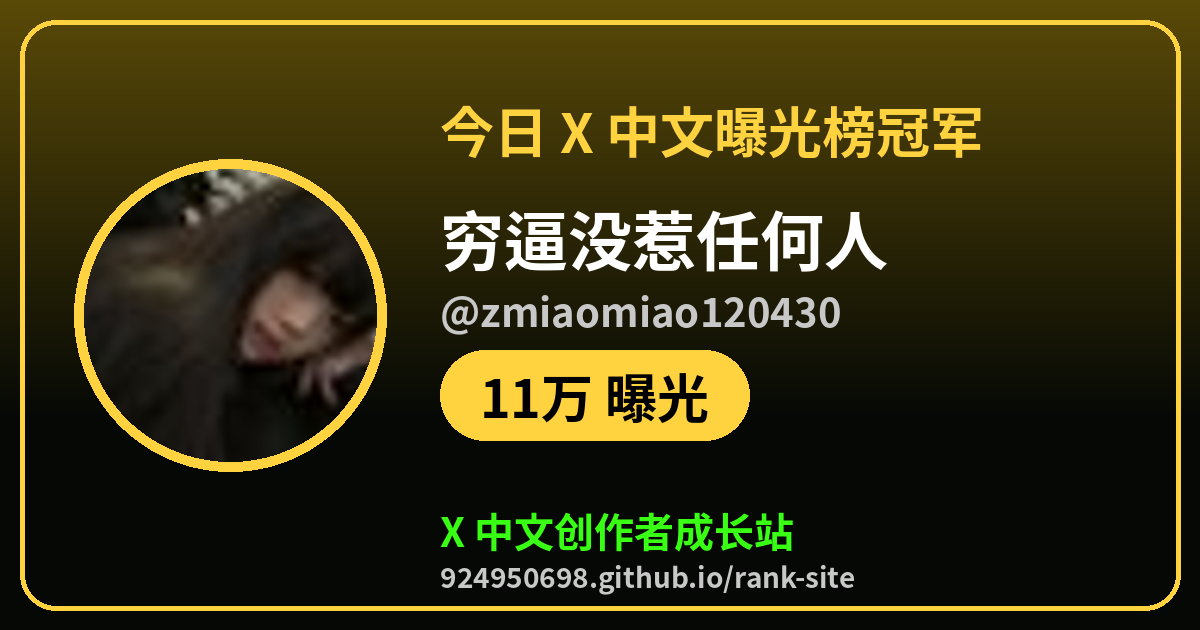
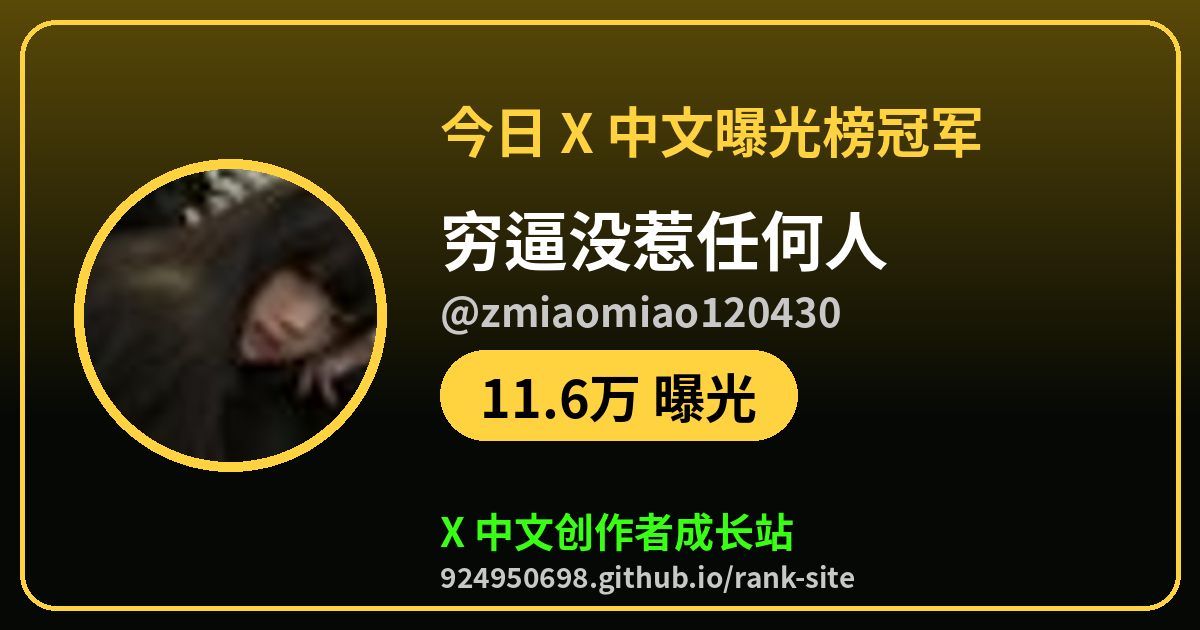
champ: 2026-10-18 06:30 CST

Changed region(s): [[0.4317, 0.5429, 0.6783, 0.7238]]

diff --git a/champ/exposure.html b/champ/exposure.html
@@ -1,7 +1,7 @@
 <!doctype html><html lang="zh-CN"><head><meta charset="utf-8"><meta name="viewport" content="width=device-width,initial-scale=1">
-<title>今日 X 中文曝光榜冠军：穷逼没惹任何人（@zmiaomiao120430）</title><meta name="description" content="11万 曝光，来看看今天谁在爆，你排第几">
-<meta property="og:type" content="website"><meta property="og:url" content="https://924950698.github.io/rank-site/champ/exposure.html"><meta property="og:title" content="今日 X 中文曝光榜冠军：穷逼没惹任何人（@zmiaomiao120430）"><meta property="og:description" content="11万 曝光，来看看今天谁在爆，你排第几">
-<meta property="og:image" content="https://924950698.github.io/rank-site/champ/exposure.png?v=20261017T2106"><meta name="twitter:card" content="summary_large_image"><meta name="twitter:site" content="@tigerr3aue">
-<meta name="twitter:title" content="今日 X 中文曝光榜冠军：穷逼没惹任何人（@zmiaomiao120430）"><meta name="twitter:description" content="11万 曝光，来看看今天谁在爆，你排第几"><meta name="twitter:image" content="https://924950698.github.io/rank-site/champ/exposure.png?v=20261017T2106">
+<title>今日 X 中文曝光榜冠军：穷逼没惹任何人（@zmiaomiao120430）</title><meta name="description" content="11.6万 曝光，来看看今天谁在爆，你排第几">
+<meta property="og:type" content="website"><meta property="og:url" content="https://924950698.github.io/rank-site/champ/exposure.html"><meta property="og:title" content="今日 X 中文曝光榜冠军：穷逼没惹任何人（@zmiaomiao120430）"><meta property="og:description" content="11.6万 曝光，来看看今天谁在爆，你排第几">
+<meta property="og:image" content="https://924950698.github.io/rank-site/champ/exposure.png?v=20261017T2202"><meta name="twitter:card" content="summary_large_image"><meta name="twitter:site" content="@tigerr3aue">
+<meta name="twitter:title" content="今日 X 中文曝光榜冠军：穷逼没惹任何人（@zmiaomiao120430）"><meta name="twitter:description" content="11.6万 曝光，来看看今天谁在爆，你排第几"><meta name="twitter:image" content="https://924950698.github.io/rank-site/champ/exposure.png?v=20261017T2202">
 <meta http-equiv="refresh" content="0;url=https://924950698.github.io/rank-site/?champ=zmiaomiao120430&amp;board=exposure#rank"><script>location.replace("https://924950698.github.io/rank-site/?champ=zmiaomiao120430&board=exposure#rank")</script></head>
 <body style="background:#000;color:#fff;font-family:sans-serif;text-align:center;padding:40px"><a href="https://924950698.github.io/rank-site/?champ=zmiaomiao120430&amp;board=exposure#rank" style="color:#39ff14">去 X 中文创作者成长站看冠军卡片</a></body></html>

diff --git a/champ/comments.html b/champ/comments.html
@@ -1,7 +1,7 @@
 <!doctype html><html lang="zh-CN"><head><meta charset="utf-8"><meta name="viewport" content="width=device-width,initial-scale=1">
-<title>今日 X 中文评论榜冠军：穷逼没惹任何人（@zmiaomiao120430）</title><meta name="description" content="171 评论，来看看今天谁在爆，你排第几">
-<meta property="og:type" content="website"><meta property="og:url" content="https://924950698.github.io/rank-site/champ/comments.html"><meta property="og:title" content="今日 X 中文评论榜冠军：穷逼没惹任何人（@zmiaomiao120430）"><meta property="og:description" content="171 评论，来看看今天谁在爆，你排第几">
-<meta property="og:image" content="https://924950698.github.io/rank-site/champ/comments.png?v=20261017T2106"><meta name="twitter:card" content="summary_large_image"><meta name="twitter:site" content="@tigerr3aue">
-<meta name="twitter:title" content="今日 X 中文评论榜冠军：穷逼没惹任何人（@zmiaomiao120430）"><meta name="twitter:description" content="171 评论，来看看今天谁在爆，你排第几"><meta name="twitter:image" content="https://924950698.github.io/rank-site/champ/comments.png?v=20261017T2106">
+<title>今日 X 中文评论榜冠军：穷逼没惹任何人（@zmiaomiao120430）</title><meta name="description" content="177 评论，来看看今天谁在爆，你排第几">
+<meta property="og:type" content="website"><meta property="og:url" content="https://924950698.github.io/rank-site/champ/comments.html"><meta property="og:title" content="今日 X 中文评论榜冠军：穷逼没惹任何人（@zmiaomiao120430）"><meta property="og:description" content="177 评论，来看看今天谁在爆，你排第几">
+<meta property="og:image" content="https://924950698.github.io/rank-site/champ/comments.png?v=20261017T2202"><meta name="twitter:card" content="summary_large_image"><meta name="twitter:site" content="@tigerr3aue">
+<meta name="twitter:title" content="今日 X 中文评论榜冠军：穷逼没惹任何人（@zmiaomiao120430）"><meta name="twitter:description" content="177 评论，来看看今天谁在爆，你排第几"><meta name="twitter:image" content="https://924950698.github.io/rank-site/champ/comments.png?v=20261017T2202">
 <meta http-equiv="refresh" content="0;url=https://924950698.github.io/rank-site/?champ=zmiaomiao120430&amp;board=comments#rank"><script>location.replace("https://924950698.github.io/rank-site/?champ=zmiaomiao120430&board=comments#rank")</script></head>
 <body style="background:#000;color:#fff;font-family:sans-serif;text-align:center;padding:40px"><a href="https://924950698.github.io/rank-site/?champ=zmiaomiao120430&amp;board=comments#rank" style="color:#39ff14">去 X 中文创作者成长站看冠军卡片</a></body></html>

diff --git a/champ/rising.html b/champ/rising.html
@@ -1,7 +1,7 @@
 <!doctype html><html lang="zh-CN"><head><meta charset="utf-8"><meta name="viewport" content="width=device-width,initial-scale=1">
 <title>今日 X 中文新号进步榜冠军：NiRox（@nirox0216）</title><meta name="description" content="+461 粉，来看看今天谁在爆，你排第几">
 <meta property="og:type" content="website"><meta property="og:url" content="https://924950698.github.io/rank-site/champ/rising.html"><meta property="og:title" content="今日 X 中文新号进步榜冠军：NiRox（@nirox0216）"><meta property="og:description" content="+461 粉，来看看今天谁在爆，你排第几">
-<meta property="og:image" content="https://924950698.github.io/rank-site/champ/rising.png?v=20261017T2106"><meta name="twitter:card" content="summary_large_image"><meta name="twitter:site" content="@tigerr3aue">
-<meta name="twitter:title" content="今日 X 中文新号进步榜冠军：NiRox（@nirox0216）"><meta name="twitter:description" content="+461 粉，来看看今天谁在爆，你排第几"><meta name="twitter:image" content="https://924950698.github.io/rank-site/champ/rising.png?v=20261017T2106">
+<meta property="og:image" content="https://924950698.github.io/rank-site/champ/rising.png?v=20261017T2202"><meta name="twitter:card" content="summary_large_image"><meta name="twitter:site" content="@tigerr3aue">
+<meta name="twitter:title" content="今日 X 中文新号进步榜冠军：NiRox（@nirox0216）"><meta name="twitter:description" content="+461 粉，来看看今天谁在爆，你排第几"><meta name="twitter:image" content="https://924950698.github.io/rank-site/champ/rising.png?v=20261017T2202">
 <meta http-equiv="refresh" content="0;url=https://924950698.github.io/rank-site/?champ=nirox0216&amp;board=rising#rank"><script>location.replace("https://924950698.github.io/rank-site/?champ=nirox0216&board=rising#rank")</script></head>
 <body style="background:#000;color:#fff;font-family:sans-serif;text-align:center;padding:40px"><a href="https://924950698.github.io/rank-site/?champ=nirox0216&amp;board=rising#rank" style="color:#39ff14">去 X 中文创作者成长站看冠军卡片</a></body></html>

diff --git a/champ/growth.html b/champ/growth.html
@@ -1,7 +1,7 @@
 <!doctype html><html lang="zh-CN"><head><meta charset="utf-8"><meta name="viewport" content="width=device-width,initial-scale=1">
 <title>今日 X 中文涨粉榜冠军：NiRox（@nirox0216）</title><meta name="description" content="+461 粉，来看看今天谁在爆，你排第几">
 <meta property="og:type" content="website"><meta property="og:url" content="https://924950698.github.io/rank-site/champ/growth.html"><meta property="og:title" content="今日 X 中文涨粉榜冠军：NiRox（@nirox0216）"><meta property="og:description" content="+461 粉，来看看今天谁在爆，你排第几">
-<meta property="og:image" content="https://924950698.github.io/rank-site/champ/growth.png?v=20261017T2106"><meta name="twitter:card" content="summary_large_image"><meta name="twitter:site" content="@tigerr3aue">
-<meta name="twitter:title" content="今日 X 中文涨粉榜冠军：NiRox（@nirox0216）"><meta name="twitter:description" content="+461 粉，来看看今天谁在爆，你排第几"><meta name="twitter:image" content="https://924950698.github.io/rank-site/champ/growth.png?v=20261017T2106">
+<meta property="og:image" content="https://924950698.github.io/rank-site/champ/growth.png?v=20261017T2202"><meta name="twitter:card" content="summary_large_image"><meta name="twitter:site" content="@tigerr3aue">
+<meta name="twitter:title" content="今日 X 中文涨粉榜冠军：NiRox（@nirox0216）"><meta name="twitter:description" content="+461 粉，来看看今天谁在爆，你排第几"><meta name="twitter:image" content="https://924950698.github.io/rank-site/champ/growth.png?v=20261017T2202">
 <meta http-equiv="refresh" content="0;url=https://924950698.github.io/rank-site/?champ=nirox0216&amp;board=growth#rank"><script>location.replace("https://924950698.github.io/rank-site/?champ=nirox0216&board=growth#rank")</script></head>
 <body style="background:#000;color:#fff;font-family:sans-serif;text-align:center;padding:40px"><a href="https://924950698.github.io/rank-site/?champ=nirox0216&amp;board=growth#rank" style="color:#39ff14">去 X 中文创作者成长站看冠军卡片</a></body></html>
